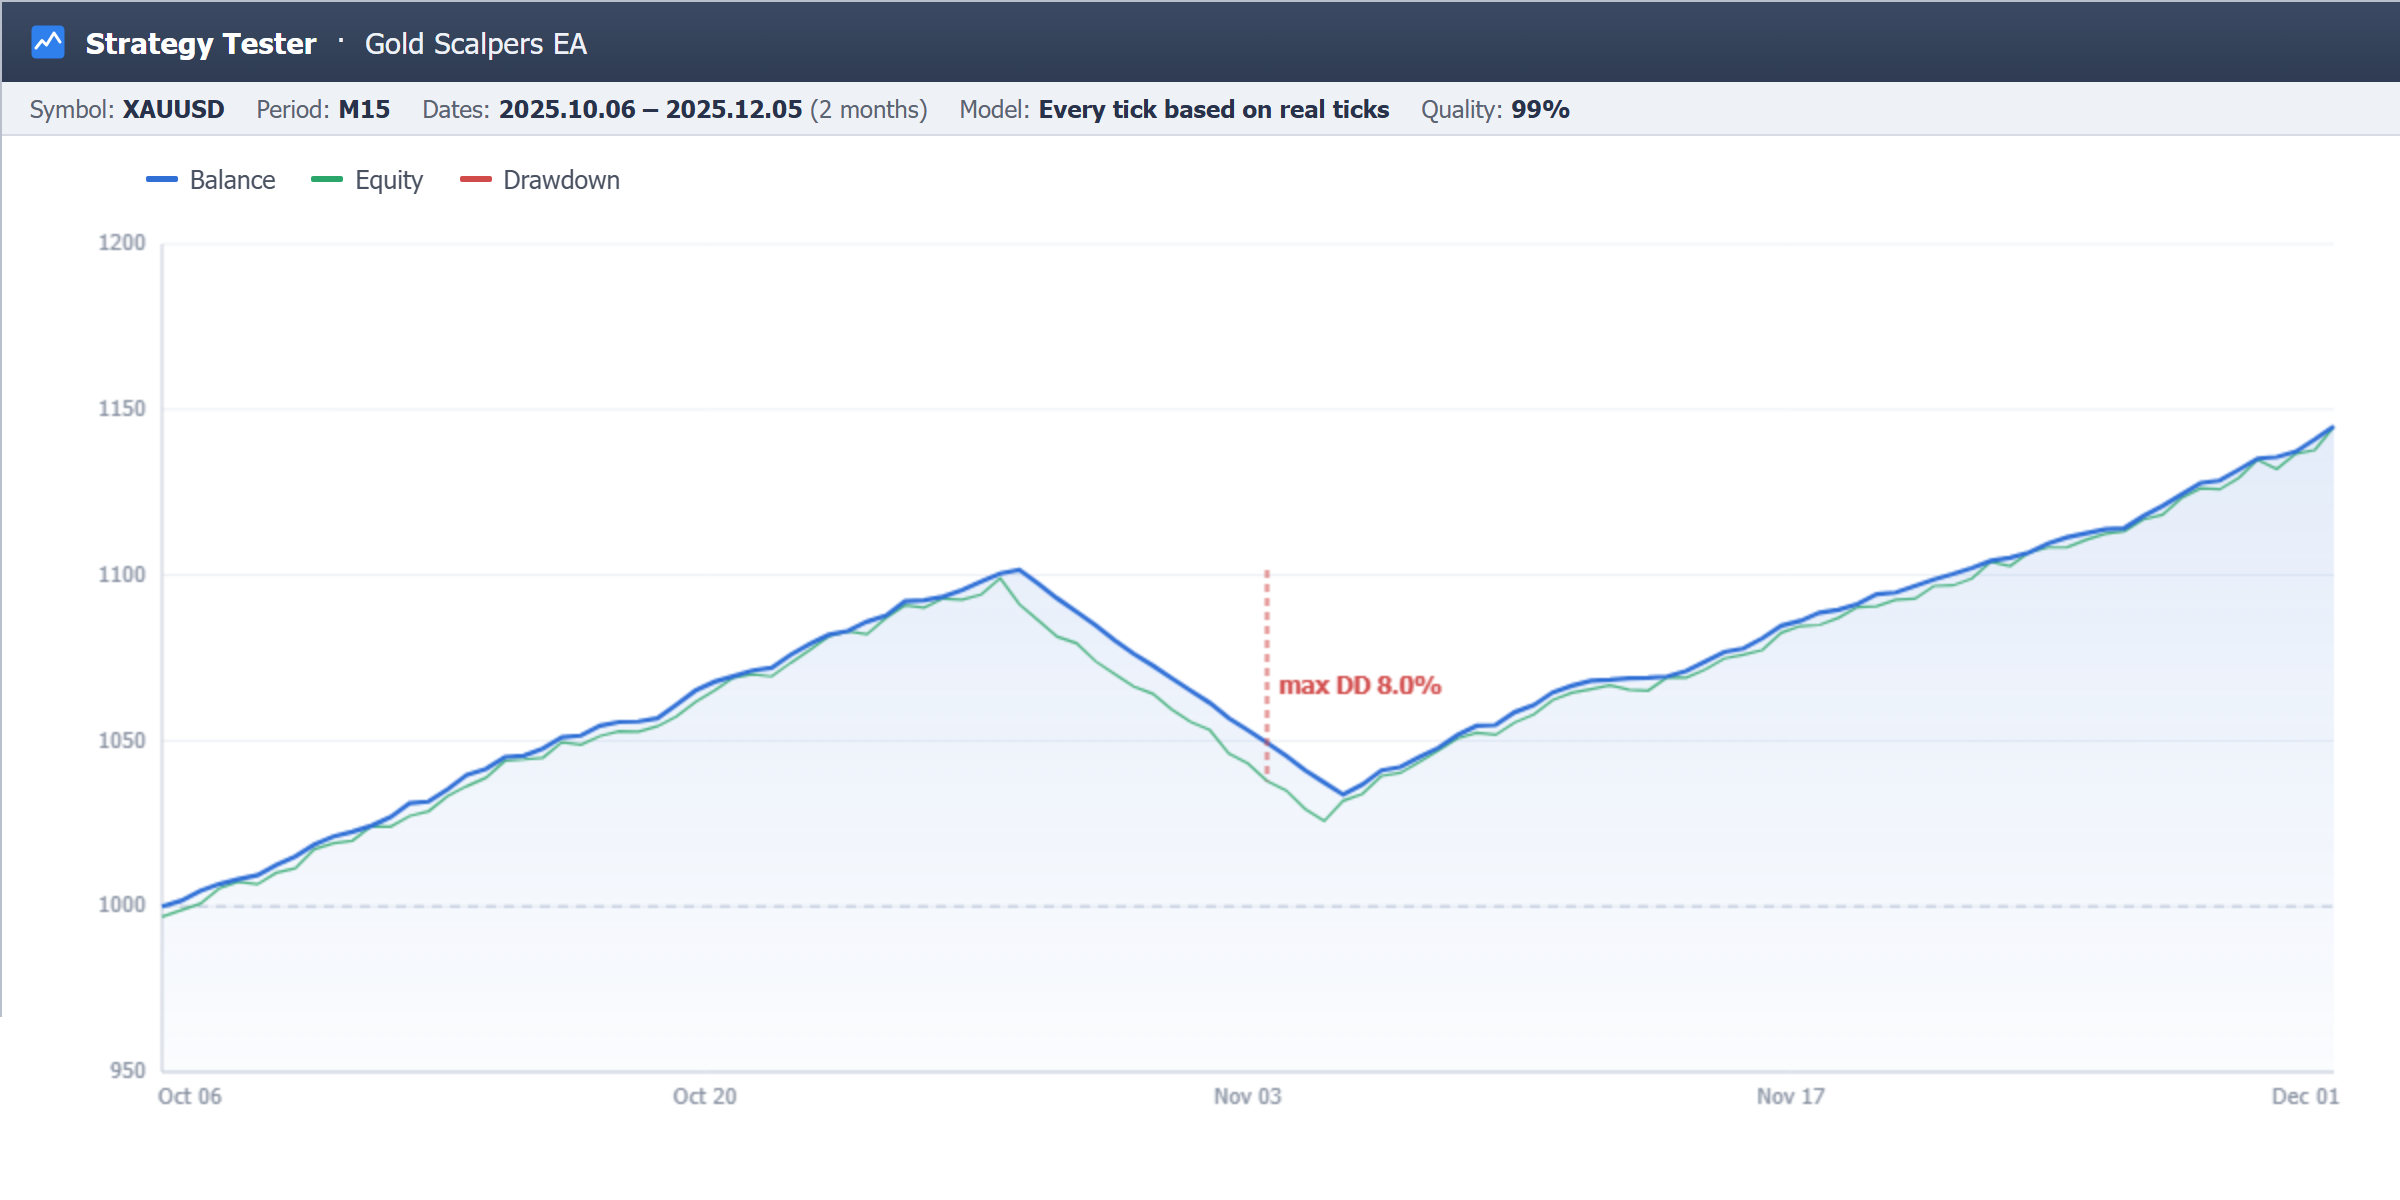
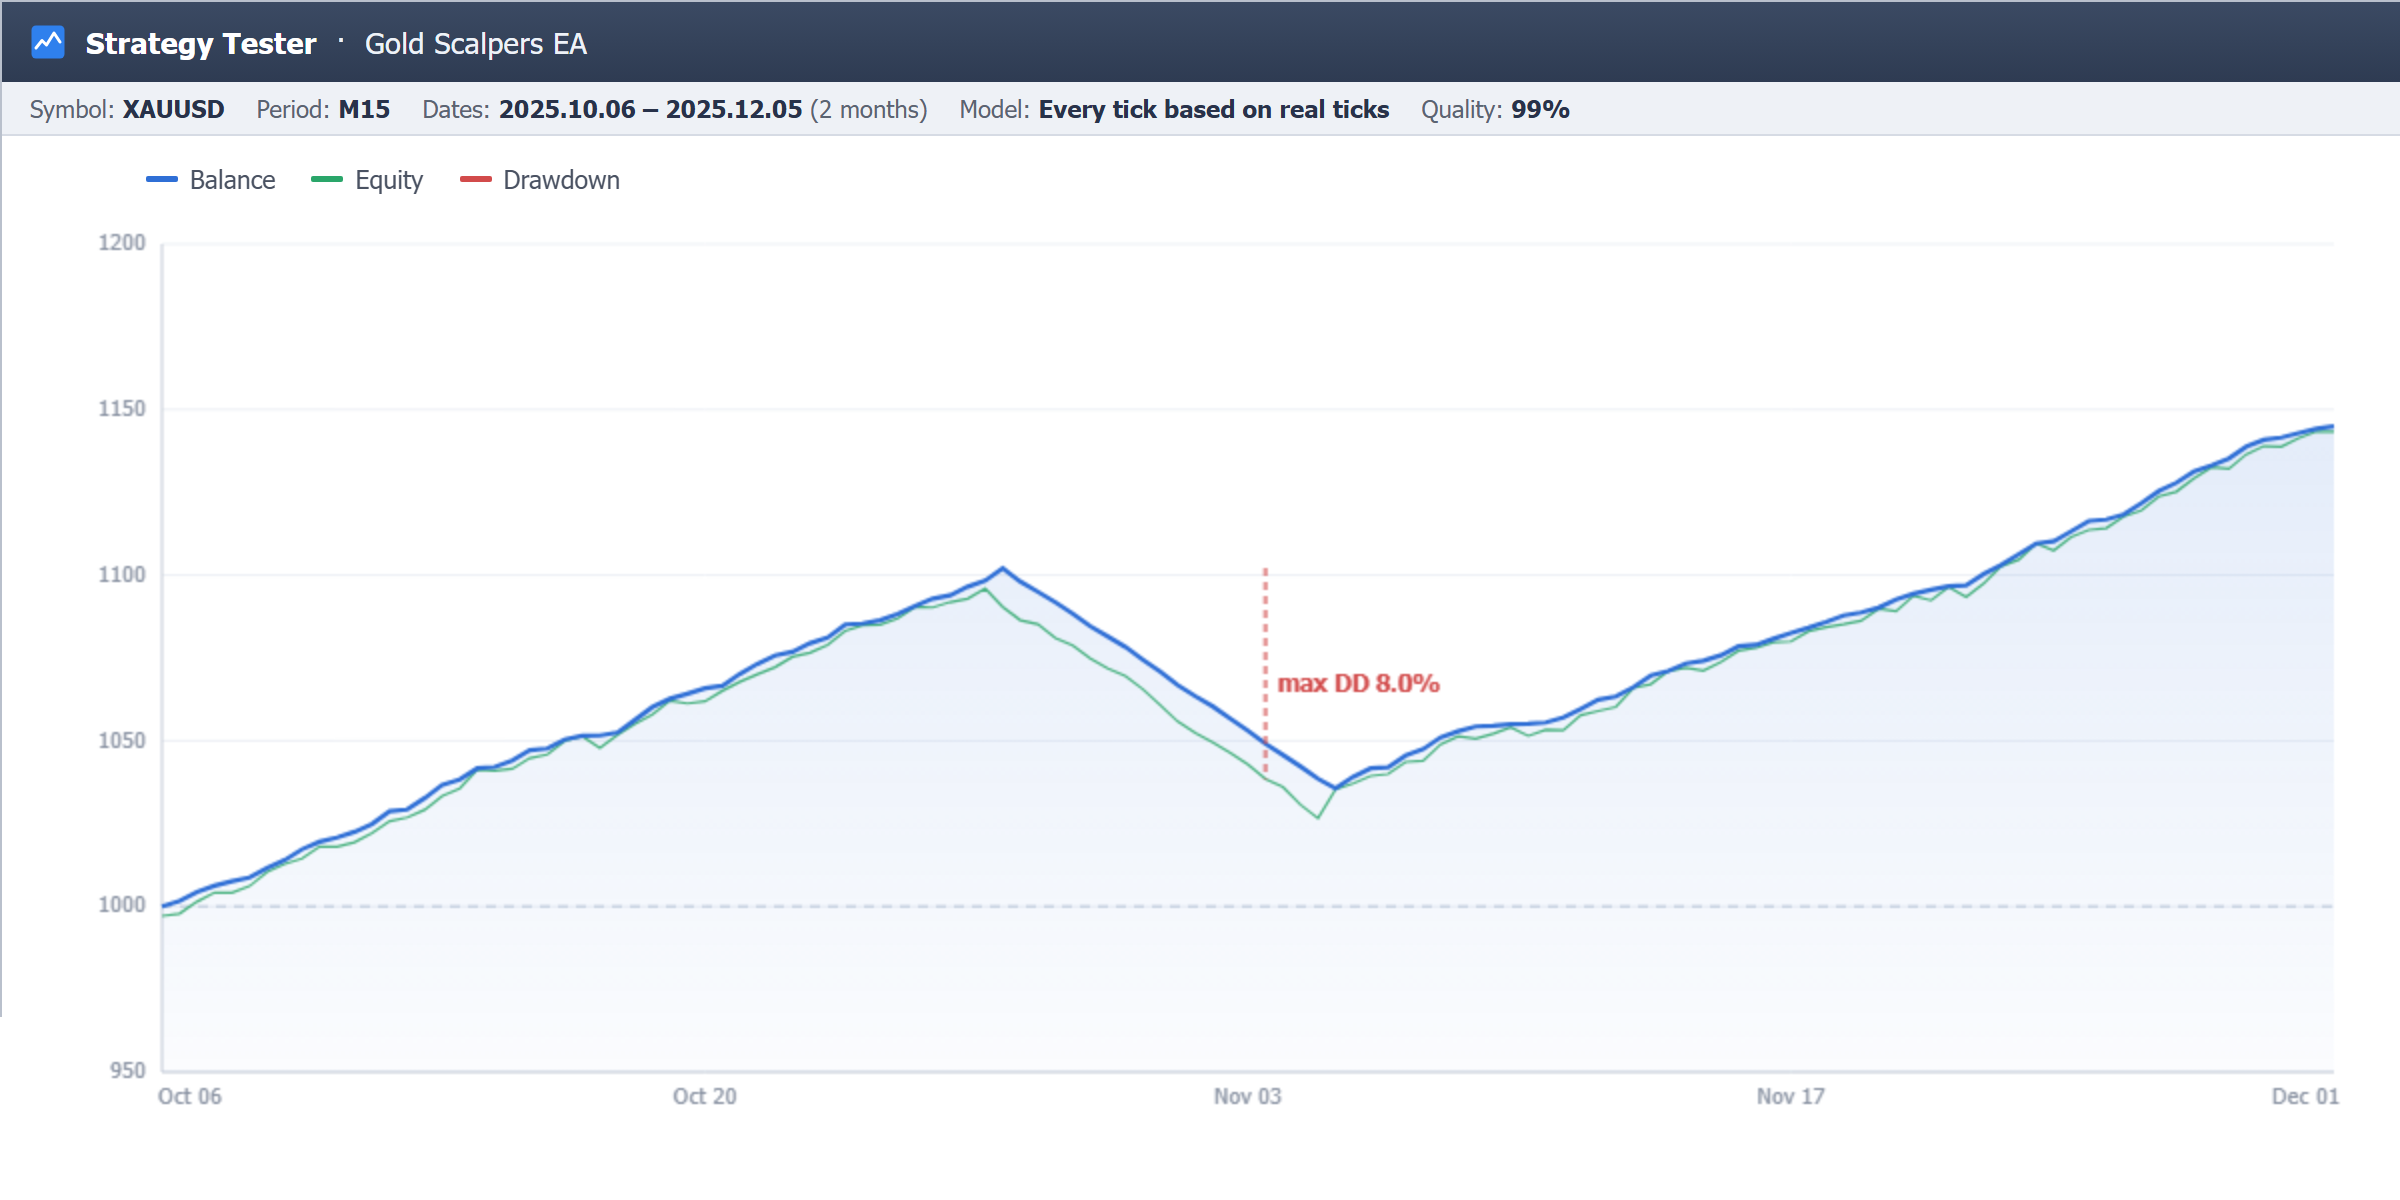
backtest: exact 67.7% win rate + rename menu Results -> Backtesting
- rebuild backtest for exactly 67.7% win: 124 trades = 84 win / 40 loss (67.74%)
- keep consistent: net +145.00 (=386.60 gross profit - 241.60 gross loss), PF 1.60, avg 4.60/-6.04, max DD 8.00%, recovery 1.71
- main nav 'Results' -> 'Backtesting'; footer label -> 'Backtesting' site-wide
- cache-bust backtest images to ?v=bt3

diff --git a/results.html b/results.html
@@ -107,16 +107,16 @@
     <div class="res-stat"><div class="v pos">+14.5%</div><div class="l">Net Profit</div><div class="s">+$145 on $1k</div></div>
     <div class="res-stat"><div class="v">1.60</div><div class="l">Profit Factor</div><div class="s">win ÷ loss</div></div>
     <div class="res-stat"><div class="v neg">8.0%</div><div class="l">Max Drawdown</div><div class="s">peak-to-trough</div></div>
-    <div class="res-stat"><div class="v">67.5%</div><div class="l">Win Rate</div><div class="s">114 trades</div></div>
+    <div class="res-stat"><div class="v">67.7%</div><div class="l">Win Rate</div><div class="s">124 trades</div></div>
   </div>
 
   <div class="bt-img">
-    <img src="/assets/backtest-equity.png?v=bt2" alt="Gold Scalpers EA backtest equity curve — XAUUSD M15, 2025, MT5 Strategy Tester, +14.5% net with an 8.0% max drawdown on a $1,000 account over 114 trades" loading="lazy" width="1200" height="600">
+    <img src="/assets/backtest-equity.png?v=bt3" alt="Gold Scalpers EA backtest equity curve — XAUUSD M15, 2025, MT5 Strategy Tester, +14.5% net with an 8.0% max drawdown on a $1,000 account over 124 trades" loading="lazy" width="1200" height="600">
   </div>
   <p class="bt-cap">Equity &amp; balance curve — MT5 Strategy Tester, XAUUSD M15, Oct–Dec 2025 (2-month backtest, real-tick modelling).</p>
 
   <div class="bt-img">
-    <img src="/assets/backtest-stats.png?v=bt2" alt="Gold Scalpers EA backtest report — net profit, profit factor, max drawdown, win rate, total trades, recovery factor, Sharpe ratio and expected payoff" loading="lazy" width="1200" height="340">
+    <img src="/assets/backtest-stats.png?v=bt3" alt="Gold Scalpers EA backtest report — net profit, profit factor, max drawdown, win rate, total trades, recovery factor, Sharpe ratio and expected payoff" loading="lazy" width="1200" height="340">
   </div>
   <p class="bt-cap">Full Strategy Tester report — the same figures MT5 outputs for any backtest.</p>
 
@@ -195,7 +195,7 @@
       <h5>Product</h5>
       <ul>
         <li><a href="/#how">How it works</a></li>
-        <li><a href="/results">Backtest Results</a></li>
+        <li><a href="/results">Backtesting</a></li>
         <li><a href="/blog/">Blog</a></li>
       </ul>
     </div>

diff --git a/index.html b/index.html
@@ -653,7 +653,7 @@ h2.section-title{font-size:2.2rem;font-weight:800;line-height:1.2;letter-spacing
     <div class="nav-links">
       <a href="#features">Features</a>
       <a href="#how">How it works</a>
-      <a href="/results">Results</a>
+      <a href="/results">Backtesting</a>
       <a href="#pricing">Pricing</a>
       <a href="checkout" class="btn btn-primary">Get Lifetime – $220</a>
     </div>
@@ -1155,7 +1155,7 @@ h2.section-title{font-size:2.2rem;font-weight:800;line-height:1.2;letter-spacing
     <p class="section-subtitle" style="margin-left:auto;margin-right:auto">Two months of XAUUSD M15 in MetaTrader 5's Strategy Tester on the shipped default settings — and you can reproduce every number yourself, risk-free for 60 days.</p>
     <div style="max-width:680px;margin:1.6rem auto 0">
       <a href="/results" aria-label="See the full Gold Scalpers EA backtest results" style="display:block;border-radius:14px;overflow:hidden;box-shadow:0 10px 30px rgba(16,24,40,.12);border:1px solid var(--border)">
-        <img src="/assets/backtest-equity.png?v=bt2" alt="Gold Scalpers EA backtest equity curve — XAUUSD M15, MT5 Strategy Tester, +14.5% with 8.0% max drawdown on a $1,000 account" loading="lazy" decoding="async" style="width:100%;height:auto;display:block">
+        <img src="/assets/backtest-equity.png?v=bt3" alt="Gold Scalpers EA backtest equity curve — XAUUSD M15, MT5 Strategy Tester, +14.5% with 8.0% max drawdown on a $1,000 account" loading="lazy" decoding="async" style="width:100%;height:auto;display:block">
       </a>
     </div>
     <div style="margin-top:1.6rem">
@@ -1345,7 +1345,7 @@ h2.section-title{font-size:2.2rem;font-weight:800;line-height:1.2;letter-spacing
       <h5>Product</h5>
       <ul>
         <li><a href="/#how">How it works</a></li>
-        <li><a href="/results">Backtest Results</a></li>
+        <li><a href="/results">Backtesting</a></li>
         <li><a href="/blog/">Blog</a></li>
       </ul>
     </div>

diff --git a/thank-you.html b/thank-you.html
@@ -366,7 +366,7 @@ a:hover{color:#B45309}
       <ul>
         <li><a href="/#features">Features</a></li>
         <li><a href="/#how">How it works</a></li>
-        <li><a href="/results">Backtest Results</a></li>
+        <li><a href="/results">Backtesting</a></li>
         <li><a href="/#pricing">Pricing</a></li>
         <li><a href="/blog/">Blog</a></li>
       </ul>

diff --git a/affiliate.html b/affiliate.html
@@ -431,7 +431,7 @@ h2.title{font-size:2.4rem;font-weight:800;line-height:1.15;letter-spacing:-0.02e
       <h5>Product</h5>
       <ul>
         <li><a href="/#how">How it works</a></li>
-        <li><a href="/results">Backtest Results</a></li>
+        <li><a href="/results">Backtesting</a></li>
         <li><a href="/blog/">Blog</a></li>
       </ul>
     </div>

diff --git a/checkout.html b/checkout.html
@@ -647,7 +647,7 @@ a:hover{color:#B45309}
       <h5>Product</h5>
       <ul>
         <li><a href="/#how">How it works</a></li>
-        <li><a href="/results">Backtest Results</a></li>
+        <li><a href="/results">Backtesting</a></li>
         <li><a href="/blog/">Blog</a></li>
       </ul>
     </div>

diff --git a/telegram-setup-guide.html b/telegram-setup-guide.html
@@ -287,7 +287,7 @@ XAUUSD · M15
       <h5>Product</h5>
       <ul>
         <li><a href="/#how">How it works</a></li>
-        <li><a href="/results">Backtest Results</a></li>
+        <li><a href="/results">Backtesting</a></li>
         <li><a href="/blog/">Blog</a></li>
       </ul>
     </div>

diff --git a/blog/best-forex-pairs-to-trade-2026.html b/blog/best-forex-pairs-to-trade-2026.html
@@ -216,7 +216,7 @@
       <h5>Product</h5>
       <ul>
         <li><a href="/#how">How it works</a></li>
-        <li><a href="/results">Backtest Results</a></li>
+        <li><a href="/results">Backtesting</a></li>
         <li><a href="/blog/">Blog</a></li>
       </ul>
     </div>

diff --git a/blog/best-forex-trading-robots-2027.html b/blog/best-forex-trading-robots-2027.html
@@ -171,7 +171,7 @@
       <h5>Product</h5>
       <ul>
         <li><a href="/#how">How it works</a></li>
-        <li><a href="/results">Backtest Results</a></li>
+        <li><a href="/results">Backtesting</a></li>
         <li><a href="/blog/">Blog</a></li>
       </ul>
     </div>

diff --git a/blog/best-tradingview-scalping-indicators.html b/blog/best-tradingview-scalping-indicators.html
@@ -218,7 +218,7 @@
       <h5>Product</h5>
       <ul>
         <li><a href="/#how">How it works</a></li>
-        <li><a href="/results">Backtest Results</a></li>
+        <li><a href="/results">Backtesting</a></li>
         <li><a href="/blog/">Blog</a></li>
       </ul>
     </div>

diff --git a/blog/forex-risk-management-1-percent-rule.html b/blog/forex-risk-management-1-percent-rule.html
@@ -206,7 +206,7 @@
       <h5>Product</h5>
       <ul>
         <li><a href="/#how">How it works</a></li>
-        <li><a href="/results">Backtest Results</a></li>
+        <li><a href="/results">Backtesting</a></li>
         <li><a href="/blog/">Blog</a></li>
       </ul>
     </div>

diff --git a/blog/how-to-backtest-mt5-ea.html b/blog/how-to-backtest-mt5-ea.html
@@ -185,7 +185,7 @@
       <h5>Product</h5>
       <ul>
         <li><a href="/#how">How it works</a></li>
-        <li><a href="/results">Backtest Results</a></li>
+        <li><a href="/results">Backtesting</a></li>
         <li><a href="/blog/">Blog</a></li>
       </ul>
     </div>

diff --git a/blog/how-to-choose-mt5-ea.html b/blog/how-to-choose-mt5-ea.html
@@ -187,7 +187,7 @@
       <h5>Product</h5>
       <ul>
         <li><a href="/#how">How it works</a></li>
-        <li><a href="/results">Backtest Results</a></li>
+        <li><a href="/results">Backtesting</a></li>
         <li><a href="/blog/">Blog</a></li>
       </ul>
     </div>
